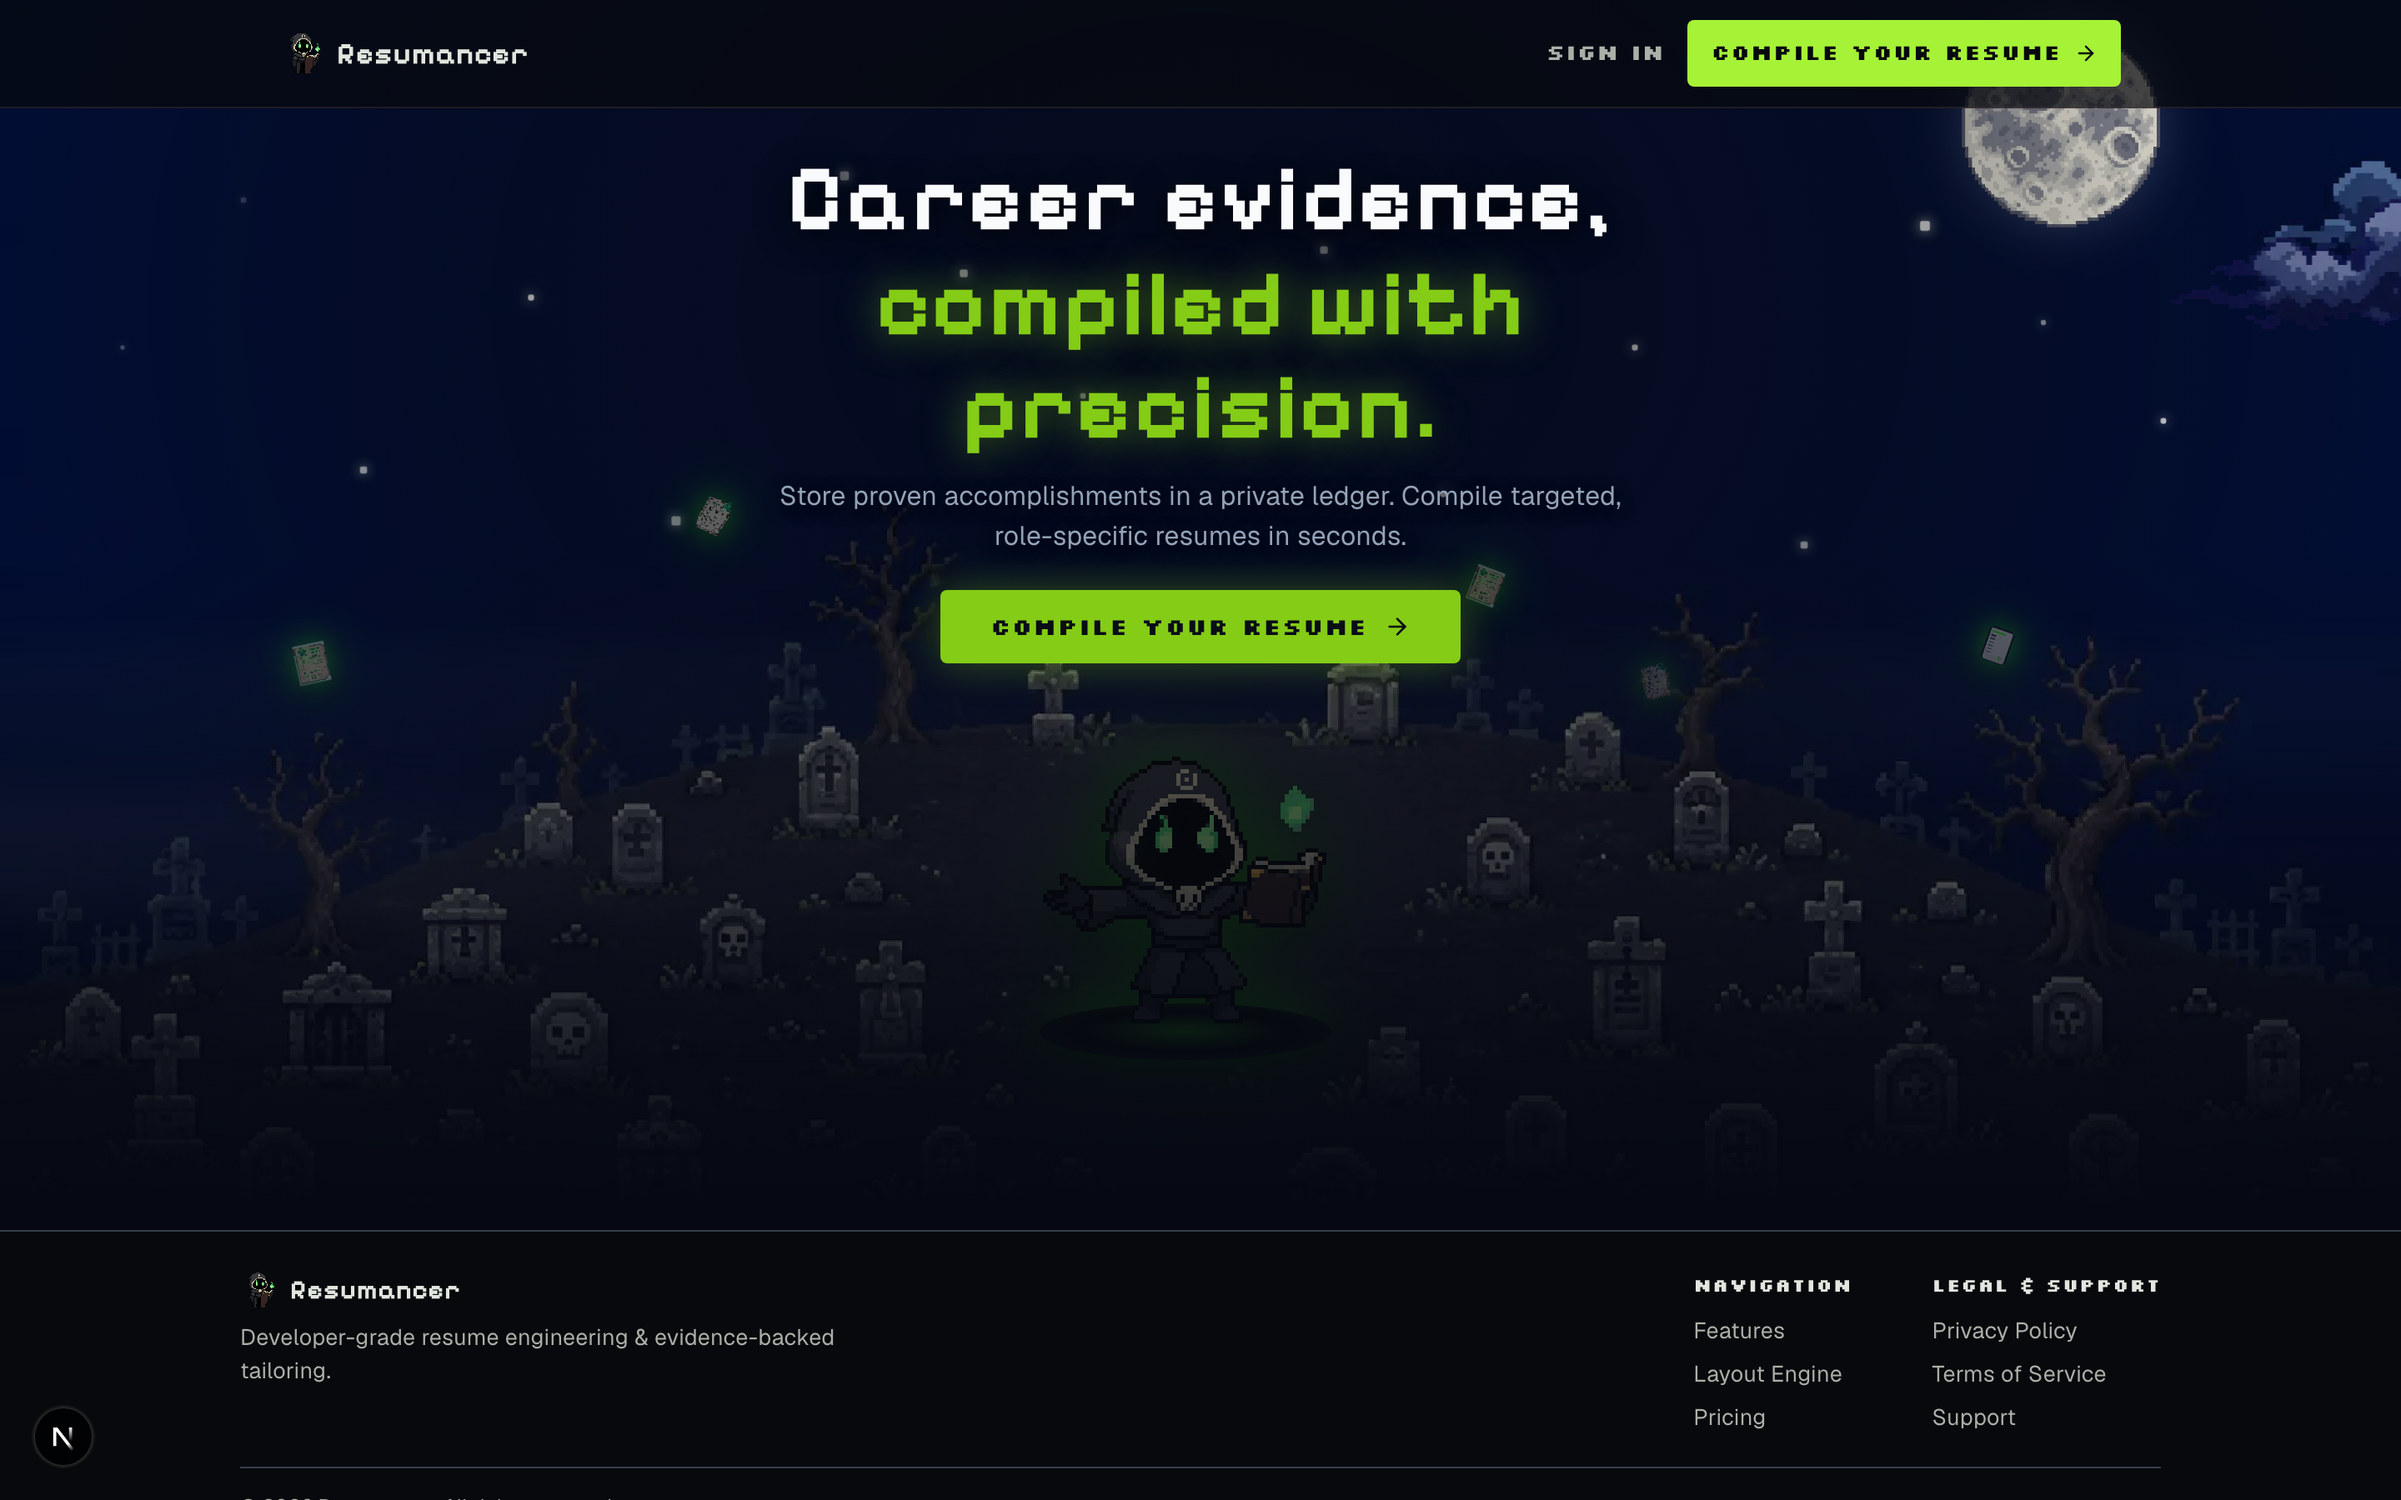
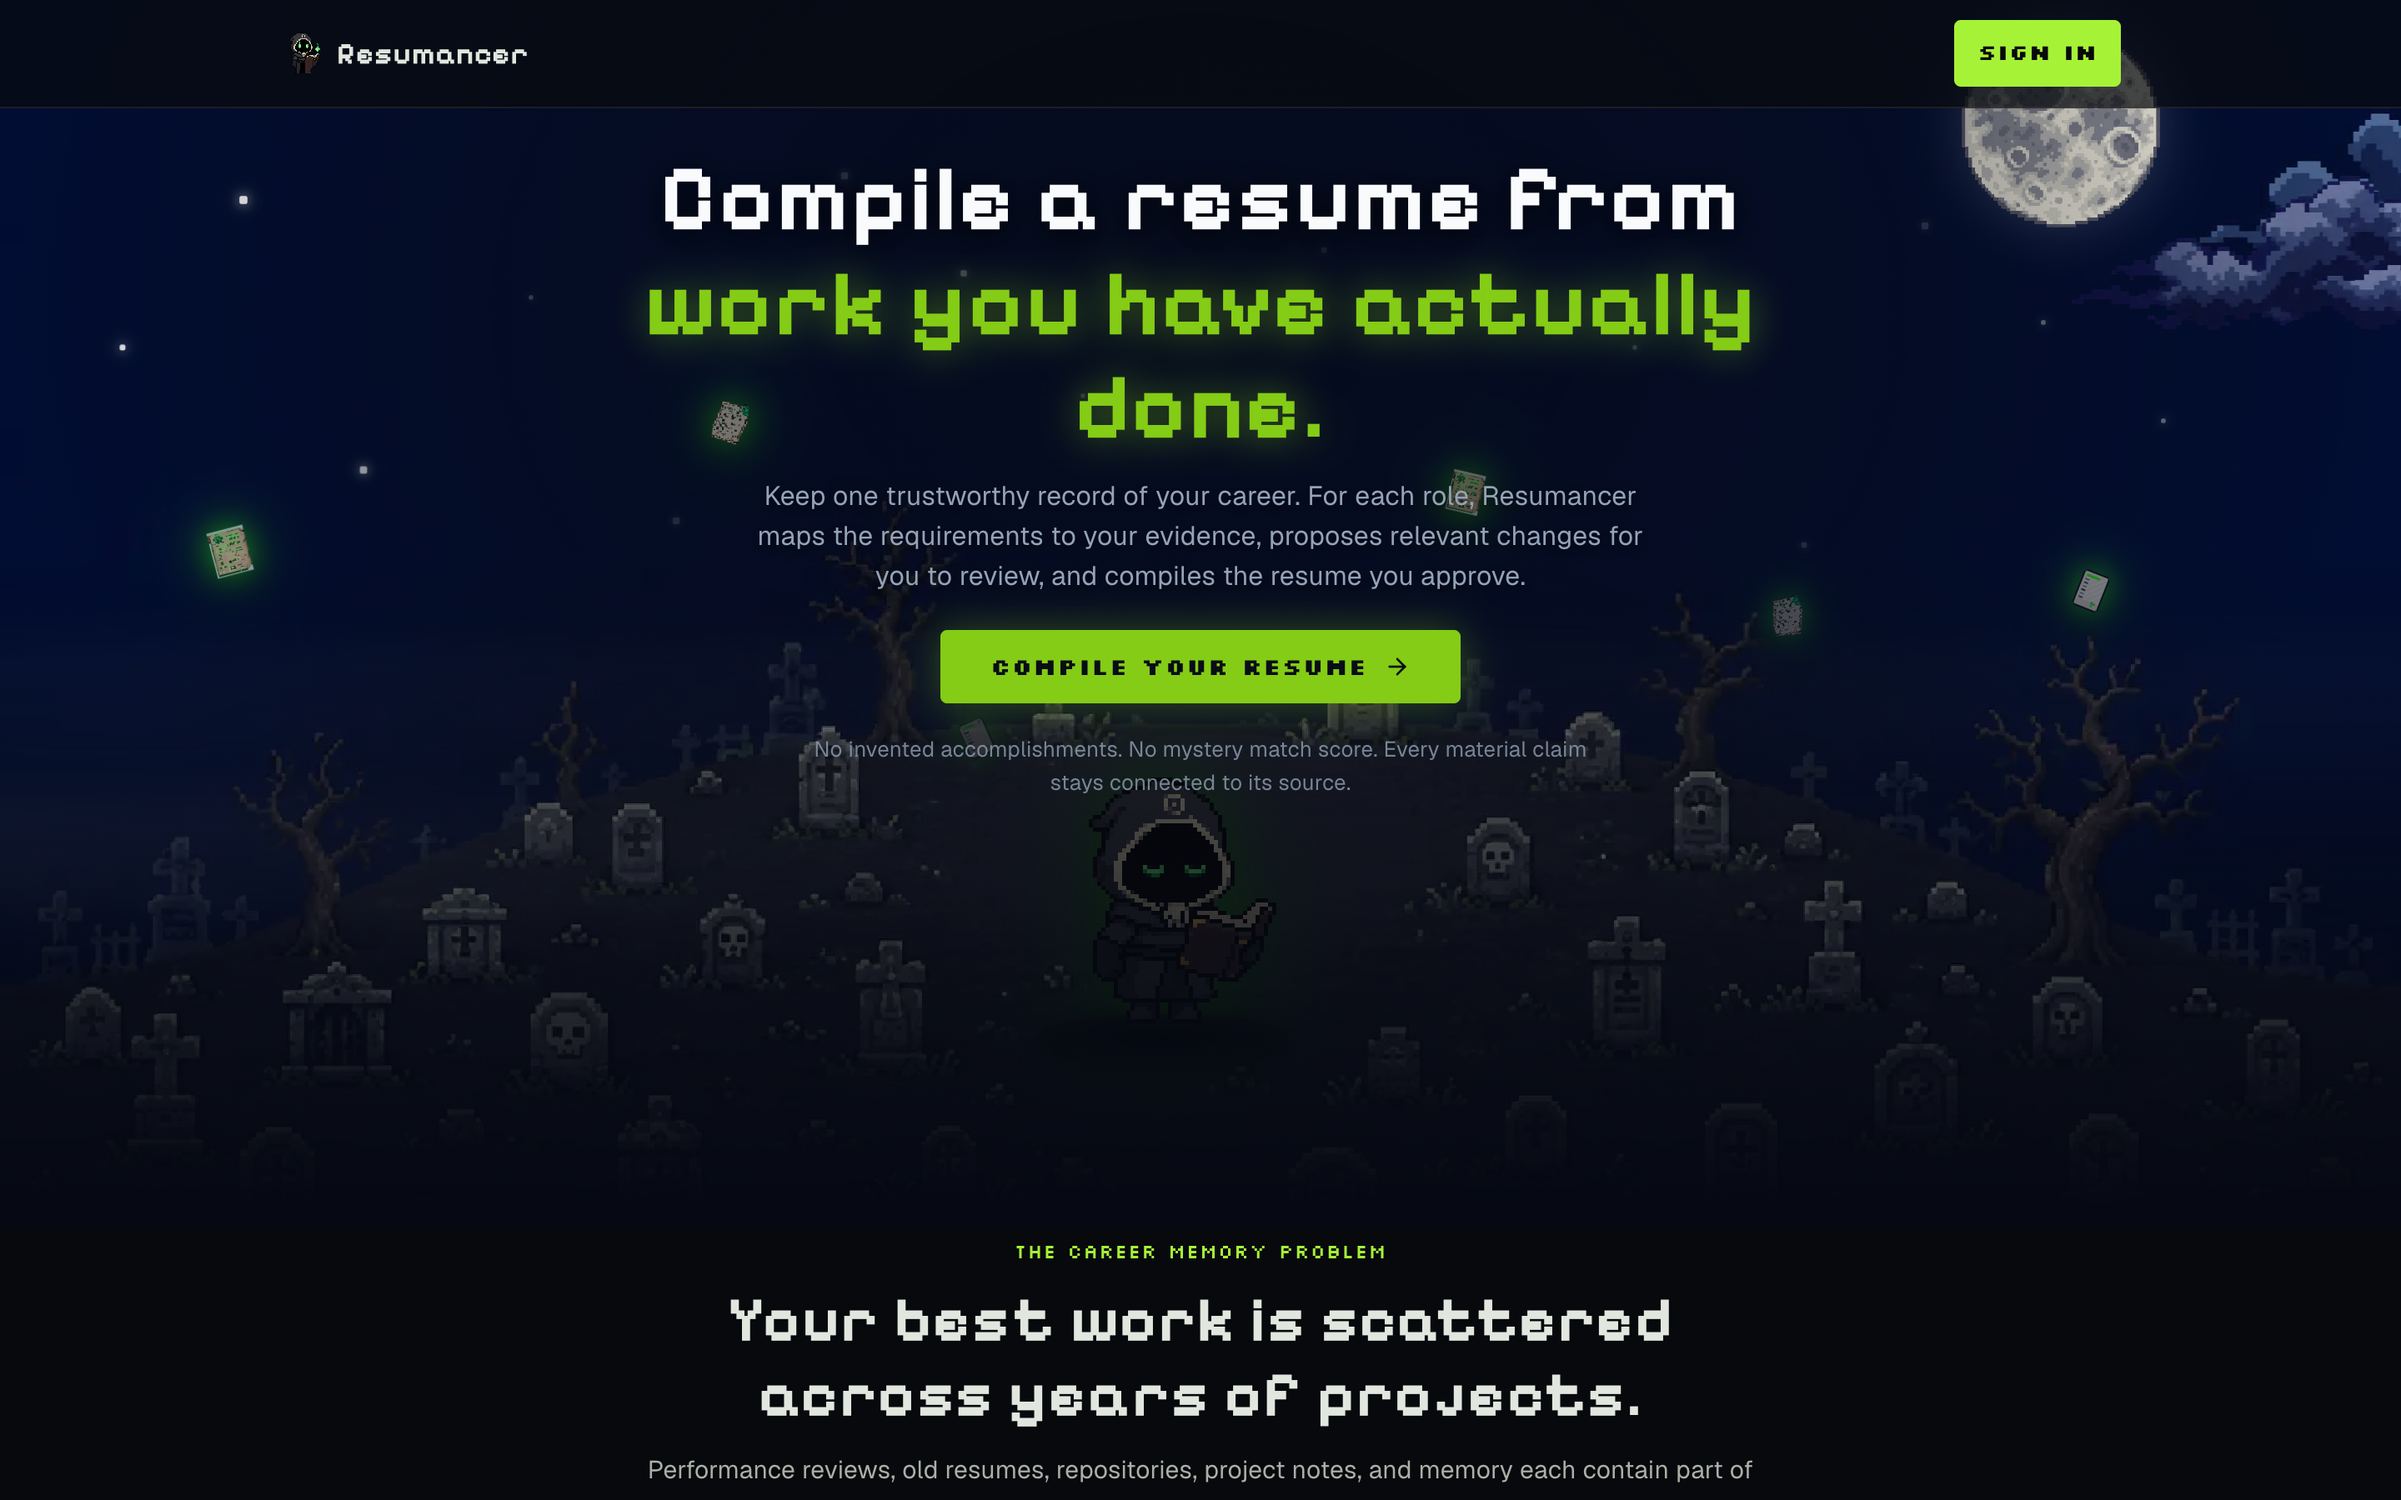
chore: refresh Resumancer screenshot for current landing redesign
Recaptured from live resumancer.dev (2880x1800 retina). Landing was
redesigned since Aug 18: pixel-art graveyard hero replaced by dark
typographic hero ('Compile a resume from work you have actually done.').
Alt text updated to match; removed orphaned resumancer-features.png
(no longer referenced).

diff --git a/data.ts b/data.ts
@@ -94,7 +94,7 @@ export const PROJECTS: ProjectItem[] = [
     tech: ["Next.js", "TypeScript", "Vercel AI SDK", "Supabase", "PostgreSQL", "React"],
     link: "https://resumancer.dev",
     image: "/work/resumancer-landing.png",
-    imageAlt: "Resumancer landing page: pixel-art graveyard hero scene with the Archivist character summoning floating resumes beneath the headline 'Career evidence, compiled with precision.'",
+    imageAlt: "Resumancer landing page: dark typographic hero with the headline 'Compile a resume from work you have actually done.'",
     featured: true,
     startDate: "10-2025",
     endDate: "Present",
